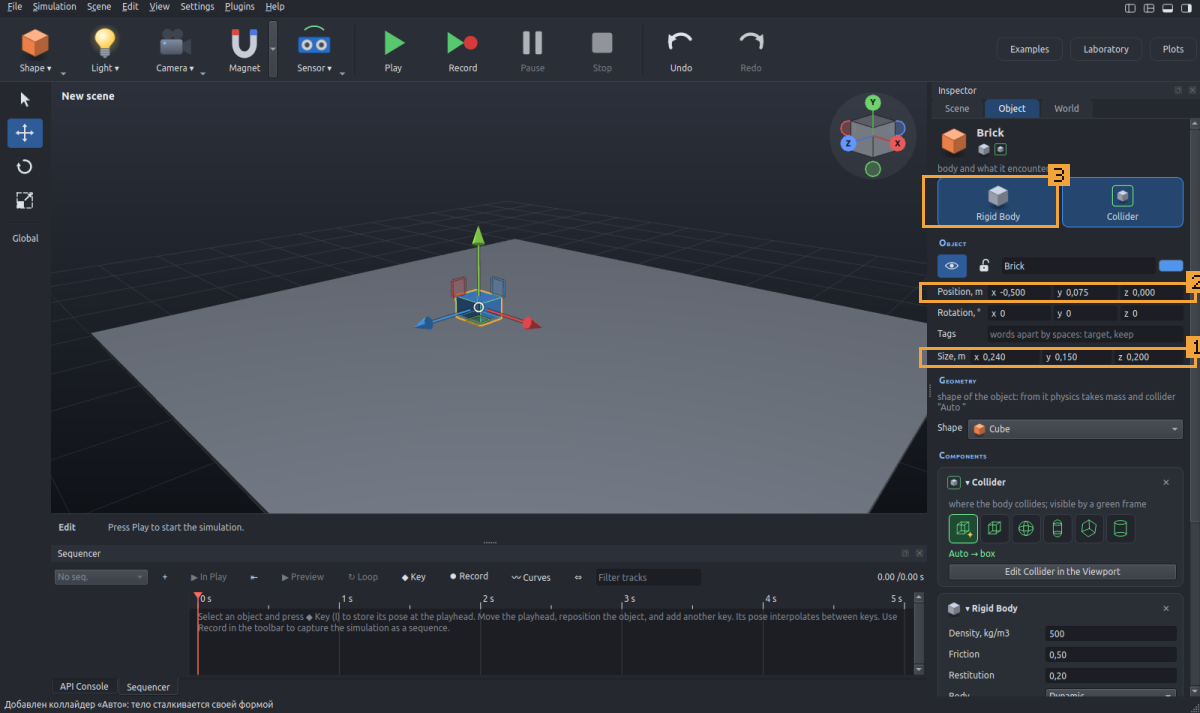
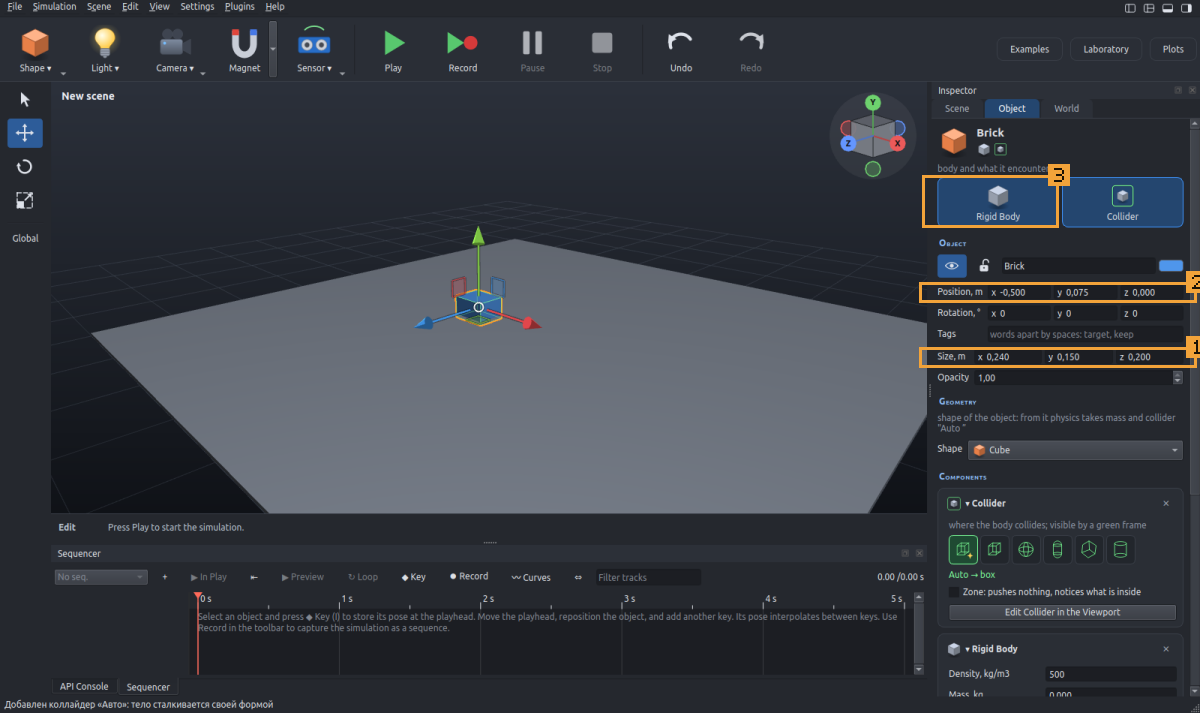
Руководство: масса тела, стекло, зона, кто с кем не сталкивается
Картинки пересняты с текущего редактора: в карточке тела поля «Масса» и
«Непрозрачность», в карточке коллайдера галочка «зона». Новые разделы - стекло
и всё, что просвечивает; зона, которая замечает, но не толкает; правило
столкновений по меткам.

Changed region(s): [[0.7708, 0.4937, 0.9867, 0.9874], [0.925, 0.4937, 0.9558, 0.5245], [0.8633, 0.4937, 0.8942, 0.5245]]

diff --git a/interface.md b/interface.md
@@ -223,7 +223,7 @@
 
 | Роль | Что значит |
 |---|---|
-| **<img src="images/ui/icons/rigid.png" height="22" alt=""> Твёрдое** | тело: плотность, трение, упругость удара. Поле «Тело» выбирает, как оно движется, — см. ниже |
+| **<img src="images/ui/icons/rigid.png" height="22" alt=""> Твёрдое** | тело: плотность или своя масса, трение, упругость удара. Поле «Тело» выбирает, как оно движется, — см. ниже |
 | **<img src="images/ui/icons/collider.png" height="22" alt=""> Коллайдер** | то, чем тело сталкивается; виден зелёным каркасом. «Авто» берёт форму самой фигуры |
 | ни одной | только геометрия: видно, но физика о ней не знает |
 
@@ -236,6 +236,36 @@
 | **динамическое** | его двигает физика: падает, сталкивается, отскакивает | ящик, шар, звено робота |
 | **кинематическое** | движется как задано — своей скоростью или секвенцией; толкает других, а его не толкает ничто | конвейер, дверь, лифт |
 | **статическое** | стоит на месте | стена, стол |
+
+### Стекло и всё, что просвечивает
+
+Поле «Непрозрачность» в карточке фигуры: `1` — сплошная, меньше — просвечивает. Так делают стекло, экран, защитное
+ограждение. Это только вид: физика считает такую фигуру обычной.
+
+### Зона: замечает, но не толкает
+
+Галочка «зона» в карточке <img src="images/ui/icons/collider.png" height="22" alt=""> «Коллайдер» делает из фигуры область: тела проходят сквозь неё, а она сообщает, кто в
+ней стоит. Так делают корзину, куда должна попасть деталь, или область вокруг робота, куда нельзя заходить.
+
+![Деталь упала в зону, шар пролетел мимо](images/ui/ru/zone.png)
+
+```python
+bin = scene.objects["Корзина"]
+scene.play()
+scene.step(120)
+print(bin.inside)        # что сейчас стоит в зоне
+```
+
+### Кто с кем не сталкивается
+
+Тело можно научить не замечать другие — по их меткам:
+
+```python
+cover.tag("кожух")
+part.ignores = ["кожух"]   # деталь проходит сквозь всё, что помечено «кожух»
+```
+
+Правило действует в обе стороны. Звенья одного робота друг с другом не сталкиваются и без него.
 
 ### Метки
 

diff --git a/interface.en.md b/interface.en.md
@@ -223,7 +223,7 @@ The two large buttons of the card are the shape's roles.
 
 | Role | What it means |
 |---|---|
-| **<img src="images/ui/icons/rigid.png" height="22" alt=""> Rigid Body** | a body: density, friction, restitution. The Body field chooses how it moves - see below |
+| **<img src="images/ui/icons/rigid.png" height="22" alt=""> Rigid Body** | a body: density or a mass of its own, friction, restitution. The Body field chooses how it moves - see below |
 | **<img src="images/ui/icons/collider.png" height="22" alt=""> Collider** | what the body collides with; drawn as a green frame. Auto takes the shape's own form |
 | neither | geometry only: it is seen, but physics does not know it |
 
@@ -236,6 +236,36 @@ The Body field of the <img src="images/ui/icons/rigid.png" height="22" alt=""> R
 | **Dynamic** | physics moves it: it falls, collides, bounces | a crate, a ball, a robot's link |
 | **Kinematic** | it moves as it is set - by its velocity or by a sequence; it pushes others, and nothing pushes it | a conveyor, a door, a lift |
 | **Static** | it stands still | a wall, a table |
+
+### Glass and whatever is seen through
+
+The Opacity field of a shape's card: `1` is solid, less is see-through. That is how glass, a screen or a safety guard
+is made. It is the look only: physics takes such a shape as any other.
+
+### A zone: it notices and does not push
+
+The Zone tick of the <img src="images/ui/icons/collider.png" height="22" alt=""> Collider card makes an area of a shape: bodies pass through it, and it tells who stands inside.
+That is how a bin a part is to reach is made, or an area around a robot that nothing may enter.
+
+![The part fell into the zone, the ball missed](images/ui/en/zone.png)
+
+```python
+bin = scene.objects["Bin"]
+scene.play()
+scene.step(120)
+print(bin.inside)        # what stands in the zone now
+```
+
+### Who does not collide with whom
+
+A body can be taught not to notice others - by their tags:
+
+```python
+cover.tag("cover")
+part.ignores = ["cover"]   # the part passes through whatever is tagged "cover"
+```
+
+The rule works both ways. The links of one robot do not collide with each other without it.
 
 ### Tags
 
